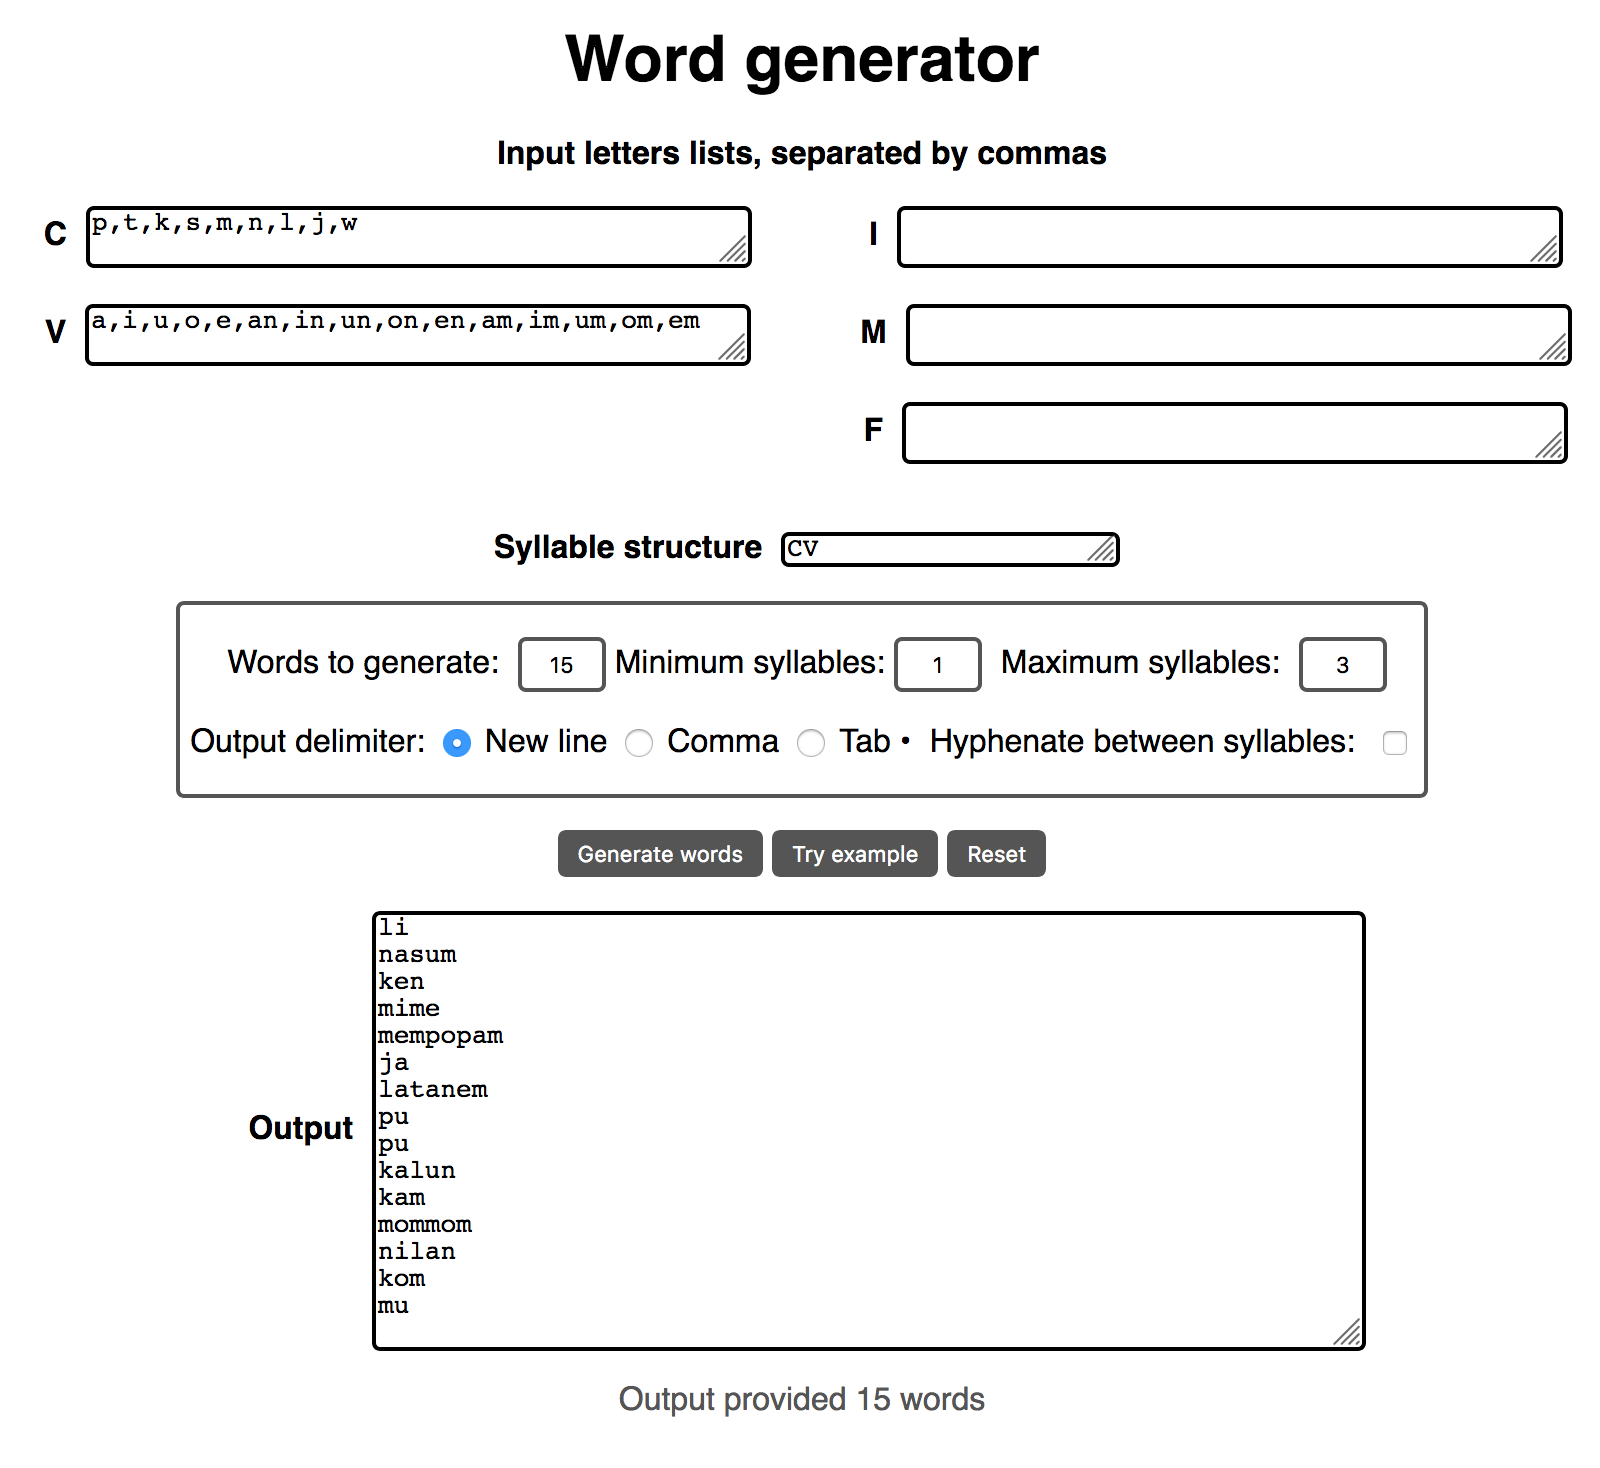
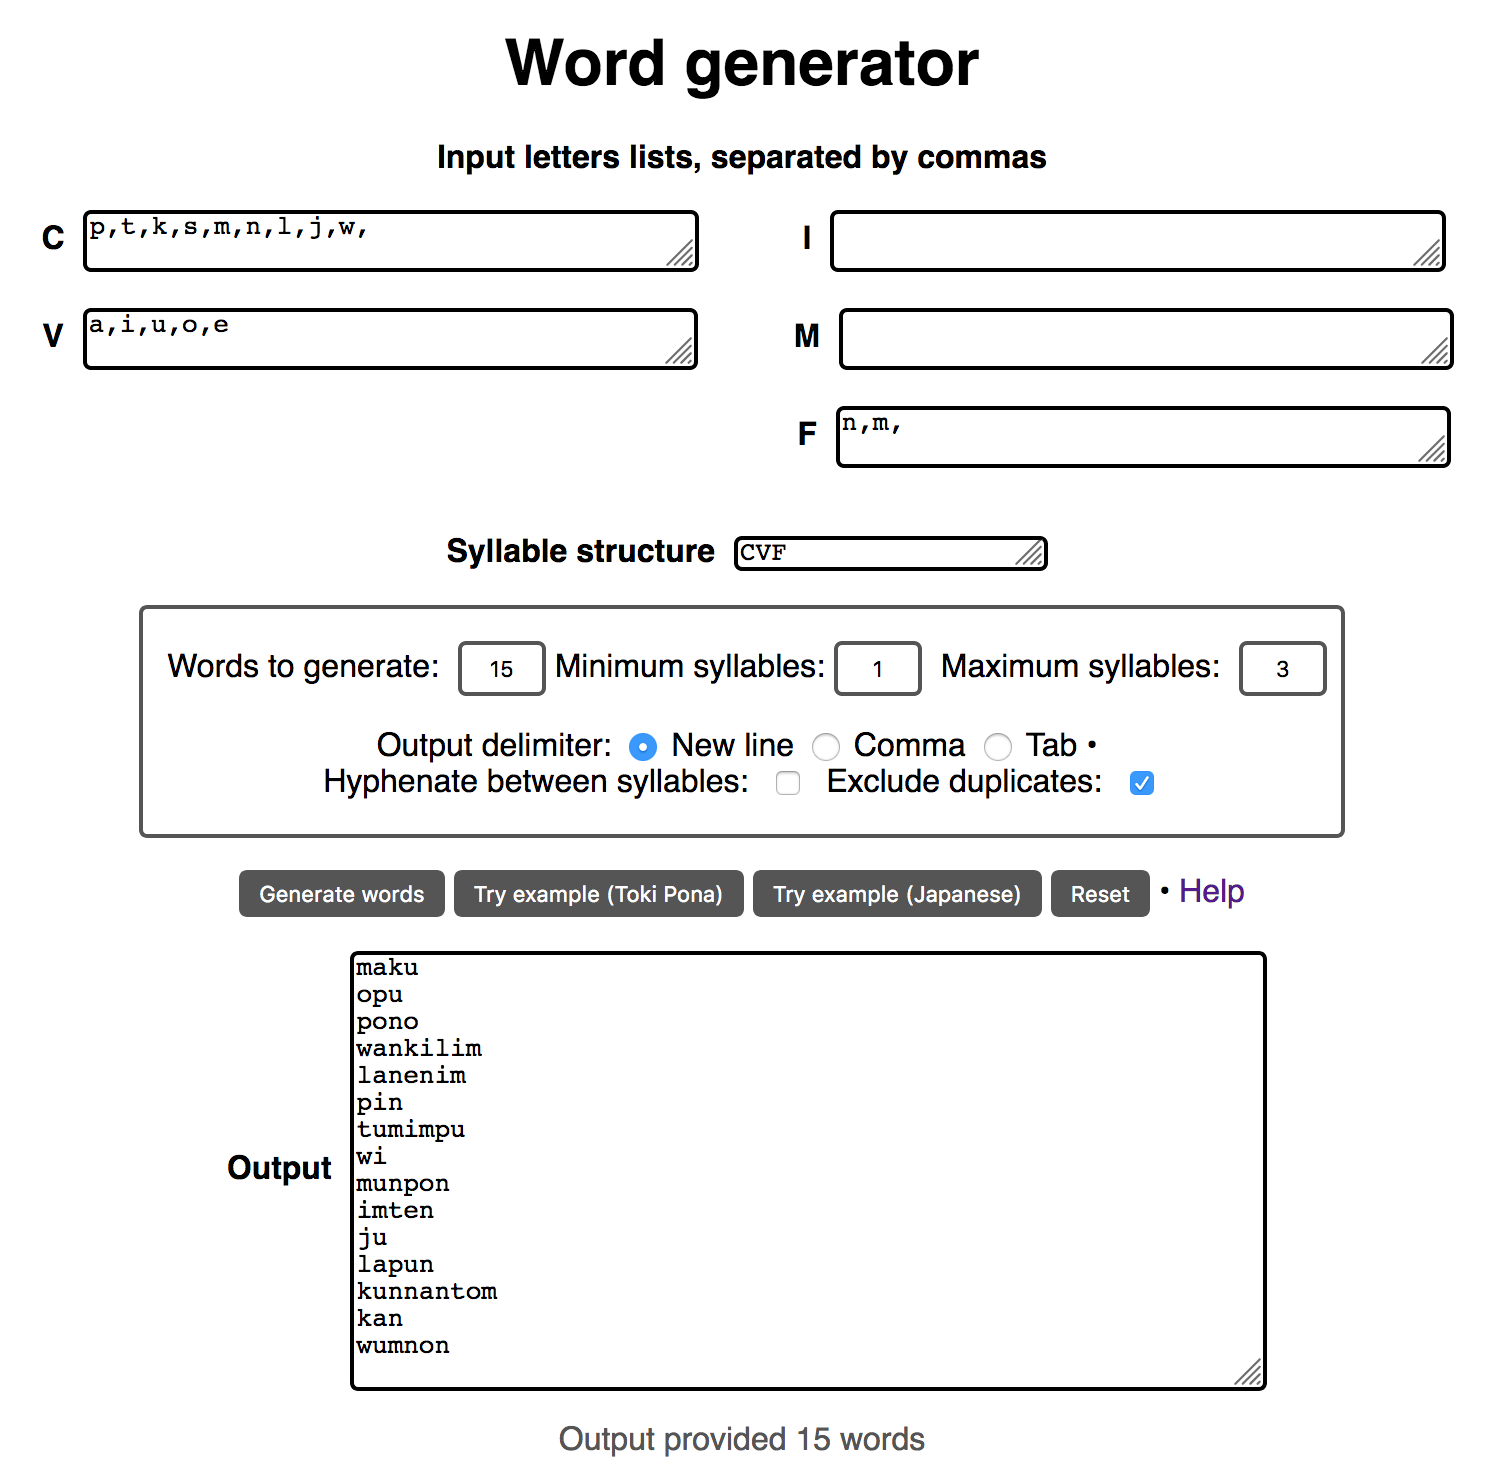
Added duplicate checking and another example

diff --git a/wordgen.js b/wordgen.js
@@ -91,6 +91,9 @@ function genWords(struct,quant,minsyl,maxsyl,c,v,i,m,f) {
 	//			rather than just the C, V, I, M, F
 	// TODO: optional letters (using bracket notation?)
 	
+	// Initiate counter for infinite loop protection during duplicate checking
+	var infLoopCounter = 0;
+	
 	// Loop for number of words required
 	for (x=0;x<quant;x++){
 
@@ -146,20 +149,60 @@ function genWords(struct,quant,minsyl,maxsyl,c,v,i,m,f) {
 		} // j loop
 		
 		// TODO: check against list of forbidden clusters
-		// TODO: optionally check for word uniqueness
 		
-		// Add to output with delimiter after each word, unless after last word
-		if (x<(quant-1)) {
-			if (document.forms["mainForm"].delimiter.value == "newline") {
-				output += newWord+"\n";
-			} else if (document.forms["mainForm"].delimiter.value == "comma") {
-				output += newWord+",";
-			} else if (document.forms["mainForm"].delimiter.value == "tab") {
-				output += newWord+"\t";
+		// TODO: the nested conditionals below include repetition
+		// Check for word uniqueness, if user opts in
+		if (document.getElementById("noduplicates").checked) {
+			//console.log("No duplicates allowed");
+			// Check if generated word is already in output
+			// TODO: improve word boundary detection (currently not foolproof)
+			if (output.includes("\n"+newWord)||output.includes("\n"+newWord)||
+				output.includes("\t"+newWord)) { 
+				//console.log("Duplicate word found: "+newWord+" in "+output);
+				// If duplicate found, do not add to output and run loop again
+				// With small letter lists and many words to generate, this could
+				//		lead to an infinite loop - increment counter to track this
+				infLoopCounter++;
+				// Check if high number of duplicates found
+				if (infLoopCounter<10000) {
+					x--;
+				} else {
+					// Return no output (will lead to error message)
+					//console.log("infLoopCounter: "+infLoopCounter);
+					return "";
+				}
+			} else {
+				console.log("No duplicates found");
+				// Add to output with delimiter after each word, unless after last word
+				if (x<(quant-1)) {
+					if (document.forms["mainForm"].delimiter.value == "newline") {
+						output += newWord+"\n";
+					} else if (document.forms["mainForm"].delimiter.value == "comma") {
+						output += newWord+",";
+					} else if (document.forms["mainForm"].delimiter.value == "tab") {
+						output += newWord+"\t";
+					}
+				} else {
+					output += newWord
+				}
 			}
 		} else {
-			output += newWord
+			// If user allows duplicates, add to output without further checks
+			//console.log("Duplicates allowed");
+			// Add to output with delimiter after each word, unless after last word
+			if (x<(quant-1)) {
+				if (document.forms["mainForm"].delimiter.value == "newline") {
+					output += newWord+"\n";
+				} else if (document.forms["mainForm"].delimiter.value == "comma") {
+					output += newWord+",";
+				} else if (document.forms["mainForm"].delimiter.value == "tab") {
+					output += newWord+"\t";
+				}
+			} else {
+				output += newWord
+			}
 		}
+
 	} // x loop (used to be i loop until 'i' was used for the category 'I')
 	
 	return output;
@@ -171,22 +214,33 @@ function genWords(struct,quant,minsyl,maxsyl,c,v,i,m,f) {
 /*
 *	Provides example inputs
 */
-function example() {
+function example(lang) {
 	reset();
-	document.forms["mainForm"].inC.value = 'p,t,k,s,m,n,l,j,w';
-	document.forms["mainForm"].inV.value = 'a,i,u,o,e,an,in,un,on,en,am,im,um,om,em';
-	document.forms["mainForm"].inI.value = '';
-	document.forms["mainForm"].inM.value = '';
-	document.forms["mainForm"].inF.value = '';
-	// More extensive example
-		//document.forms["mainForm"].inC.value = 
-		//	'p,t,k,b,d,g,f,s,h,v,z,q,m,n,r,l,ng,c,x,j,w';
-		//document.forms["mainForm"].inV.value = 
-		//	'a,i,u,o,e,y,aa,ii,uu,oo,ee,yy,ai,au,oi,ou,ei,eu,ui,iu';
 	document.forms["mainForm"].wordsNum.value = "15";
 	document.forms["mainForm"].minSyl.value = "1"; 
 	document.forms["mainForm"].maxSyl.value = "3"; 
-	document.forms["mainForm"].struct.value = "CV"; 
+	console.log("Example lang chosen: "+lang);
+	switch (lang) {
+		case "jp":
+			document.forms["mainForm"].inC.value = 'k,s,t,n,h,w,r,y,';
+			document.forms["mainForm"].inV.value = 'a,i,u,o,e';
+			document.forms["mainForm"].inI.value = '';
+			document.forms["mainForm"].inM.value = '';
+			document.forms["mainForm"].inF.value = 'n,';
+			document.forms["mainForm"].struct.value = "CVF"; 
+			break;
+		case "tokipona":
+			document.forms["mainForm"].inC.value = 'p,t,k,s,m,n,l,j,w,';
+			document.forms["mainForm"].inV.value = 'a,i,u,o,e';
+			document.forms["mainForm"].inI.value = '';
+			document.forms["mainForm"].inM.value = '';
+			document.forms["mainForm"].inF.value = 'n,m,';
+			document.forms["mainForm"].struct.value = "CVF"; 
+			break;
+		default:
+			break;
+	}
+	generate();
 }
 
 /////////////////////////////////

diff --git a/wordgen.html b/wordgen.html
@@ -12,6 +12,7 @@
 	<style>
 		body {font-family: sans-serif;}
 		h1, form {text-align: center;}
+		a {text-decoration: none;}
 		.button {
  			 background-color: #555555;
  			 border: none;
@@ -151,13 +152,22 @@
 					</span>
 					<input type="checkbox" id="hyphenate" class="checkmark">
 				</span>
+				<span class="nowrap">
+					<span class="label" id="param-label">
+						<label for="hyphenate">Exclude duplicates:</label>
+					</span>
+					<input type="checkbox" id="noduplicates" class="checkmark" checked>
+				</span>
 			</p>
 		</div>
 		<p>
 			<input type=button class="button" value="Generate words" 
 				onClick="generate()"/>
-			<input type=button class="button" value="Try example" onClick="example()"/>
+			<input type=button class="button" value="Try example (Toki Pona)" onClick="example('tokipona')"/>
+			<input type=button class="button" value="Try example (Japanese)" onClick="example('jp')"/>
 			<input type=button class="button" value="Reset" onClick="reset()"/>
+			&bull;
+			<a href="https://github.com/aaa2016/word-generator" target="_blank">Help</a>
 		</p>
 		<p>
 			<span class="label" id="output-label">Output</span>

diff --git a/README.md b/README.md
@@ -19,6 +19,9 @@ The user also specifies:
 * minimum and maximum number of syllables per word
 * whether the syllable boundaries should be delineated with a hyphen
 * what delimiter to use for the output list: new line, comma, or tab
+* whether to make sure generated words are unique within the list (not repeated)
+
+To run the generator, click **Generate words**.
 
 Words will then be generated at random, to fit the chosen syllable structure, eg.:
 * _nakupoi_
@@ -27,23 +30,27 @@ Words will then be generated at random, to fit the chosen syllable structure, eg
 * _tupimeso_
 * _ki_
 
-Letter frequencies can be adjusted by repeating letters in the input field.
-
 Any letters other than **C** or **V** in the structure will be used as is, eg.: **CVn** will generate something like:
 * _tan_
 * _pin_
 * _non_
 
-The categories **I**, **M**, and **F** are also available to use. They are particularly useful for building words with custom initial, medial, or final letters. You can simulate multi-syllable words with a structure like **IVMVF**, and by setting max syllables to 1.
+The categories **I**, **M**, and **F** are also available to use. They are particularly useful for building words with custom initial, medial, or final letters. You can simulate multi-syllable words with a structure like **IVMVF**, and by setting maximum syllables to 1.
+
+Optional letters can be simulated by adding extra commas to the letter lists (not followed by a letter), eg. **C**: p,t,k,s,n,h,m,n,l,
+
+Variable Letter frequencies can be adjusted by repeating letters in the input field, eg. **V**: a,a,a,e,e,i.
 
 ## Features yet to be implemented<a name="features"></a>
 
-* Supporting optional letters, eg. **(C)V(C)** or **CV(V)**
+* Supporting optional letters, eg. **(C)V(C)** or **CV(V)**, or supporting multiple syllable structures
 * Supporting phonotactic constraints (ie. combinations not allowed)
-* Checks to make sure generated words are unique within the list
+* Automated adjustment of how often each letter from a list is used (rather than all equal frequency)
+* Automated adjustment of how often numbers of syllables occur (eg. 1 more often than 2 or 3)
+* Sound change applicator on words after they hae been generated
 
-## Example screenshot<a name="screenshot"></a>
+## Examples<a name="screenshot"></a>
 
-This example attempts to replicate the word structure of the artificial language [Toki Pona](https://en.wikipedia.org/wiki/Toki_Pona):
+By using the **Try example** buttons, you can see the word generator attempting to replicate the word structure of either Japanese or the artificial language [Toki Pona](https://en.wikipedia.org/wiki/Toki_Pona), as shown below.
 
 ![Screenshot of tool](https://github.com/aaa2016/word-generator/blob/master/example.png)
